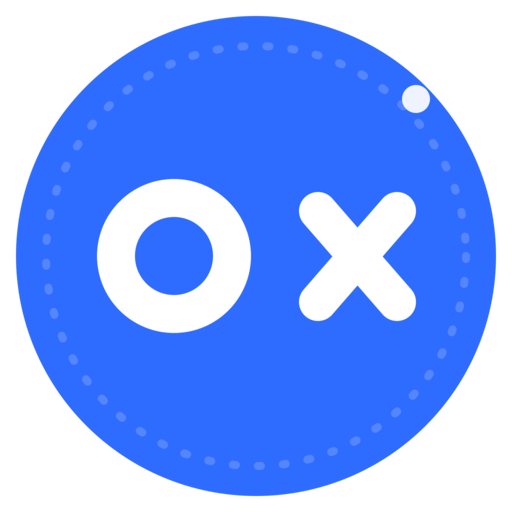
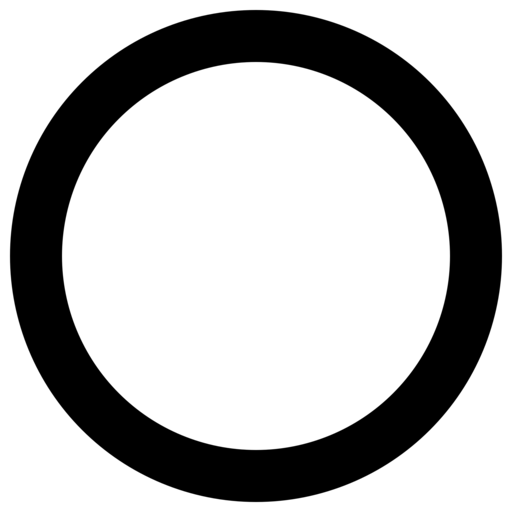
style(brand): 使用透明背景纯黑圆圈图标
将侧边栏 logo、应用图标和 favicon 统一为纯黑圆环线稿，图片背景完全透明；登录与初始化页移除原有半透明圆形底板。

diff --git a/web/src/app/(auth)/login/page.tsx b/web/src/app/(auth)/login/page.tsx
@@ -100,7 +100,7 @@ export default function LoginPage() {
             alt="0x"
             width={160}
             height={160}
-            className="relative rounded-full bg-white/10 p-3 ring-1 ring-white/20"
+            className="relative"
           />
         </div>
       </div>

diff --git a/web/src/app/(auth)/setup/page.tsx b/web/src/app/(auth)/setup/page.tsx
@@ -73,7 +73,7 @@ export default function SetupPage() {
             alt="0x"
             width={160}
             height={160}
-            className="relative rounded-full bg-white/10 p-3 ring-1 ring-white/20"
+            className="relative"
           />
         </div>
       </div>

diff --git a/CHANGELOG.md b/CHANGELOG.md
@@ -16,7 +16,7 @@
 - 仪表盘新增网络实时监测：每 10 秒用 DNS、TCP、HTTP、ICMP 和默认网关五种方式探测，展示最近 24 小时状态条、精确到秒的断网/恢复区间，并将分钟级历史保留 30 天。
 - LLM Token 消耗默认选择今天，按本地时区展示 24 个小时级堆叠柱；Token 聚合改为独立低频轮询，避免拖慢仪表盘其他实时卡片。
 - 网络监测新增当前公网 IP、归属地、国家代码和运营商信息；IP 每 5 分钟缓存刷新，断网恢复后立即重查，并随网络卡片同步更新。
-- 网站 favicon、应用图标和侧边栏 logo 改为圆形 0x 徽标；登录与初始化页同步适配。
+- 网站 favicon、应用图标和侧边栏 logo 改为透明背景的纯黑色圆圈线稿；登录与初始化页同步适配。
 - 合并上游 ARTEX `620ca5d`：引入在线更新代理、任务与计划备注、任务情报、凭据处理、拦截默认重试策略和计划任务边界修复，同时保留 0x 品牌、共存配置、网络监测与按轮调度。
 - 修复 `prove_goal` 误收官：拒绝占位/过短理由、未确认或继承证据；若标记最后一个目标时仍有 open/running 意图，则拒绝标记并保持目标 open，避免一次误调用取消全部在跑工作。
 - 优化多任务并发：批量暂停先同时取消全部任务再一次 SQL 落库、全局 Worker 默认最多 15 个并发、PostgreSQL 最多 20 个连接且空闲连接缩到 6 个；冷图维护与压缩改为任务暂停即取消、全局限并发、30 秒节流并使用轻量拓扑查询。
